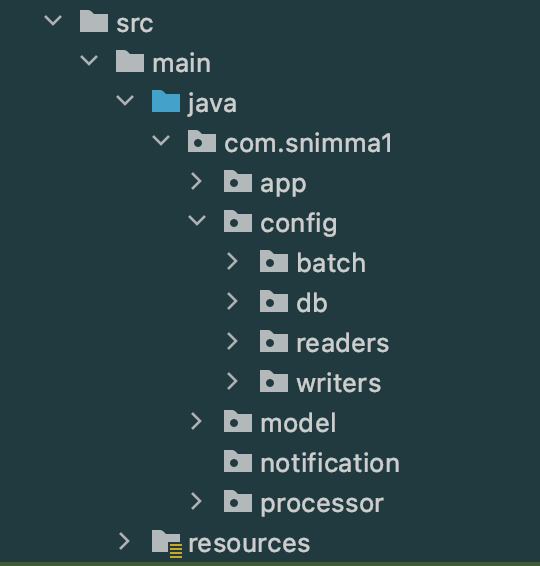
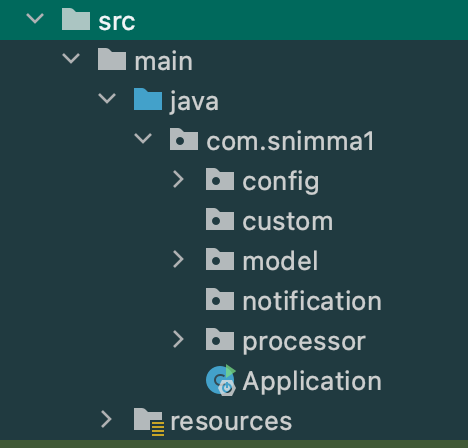
Update package structure

diff --git a/README.md b/README.md
@@ -26,6 +26,8 @@ Configuration classes for necessary batch components are scanned via Spring acco
 * `writers` contains configuration and custom writer instantiations
 * `batch` configures the overall batch processing job
 
+`com.snimma1.custom` contains custom reader/writer impls
+
 `com.snimma1.model` contains model classes
 
 `com.snimma1.processor` contains processor implementations
